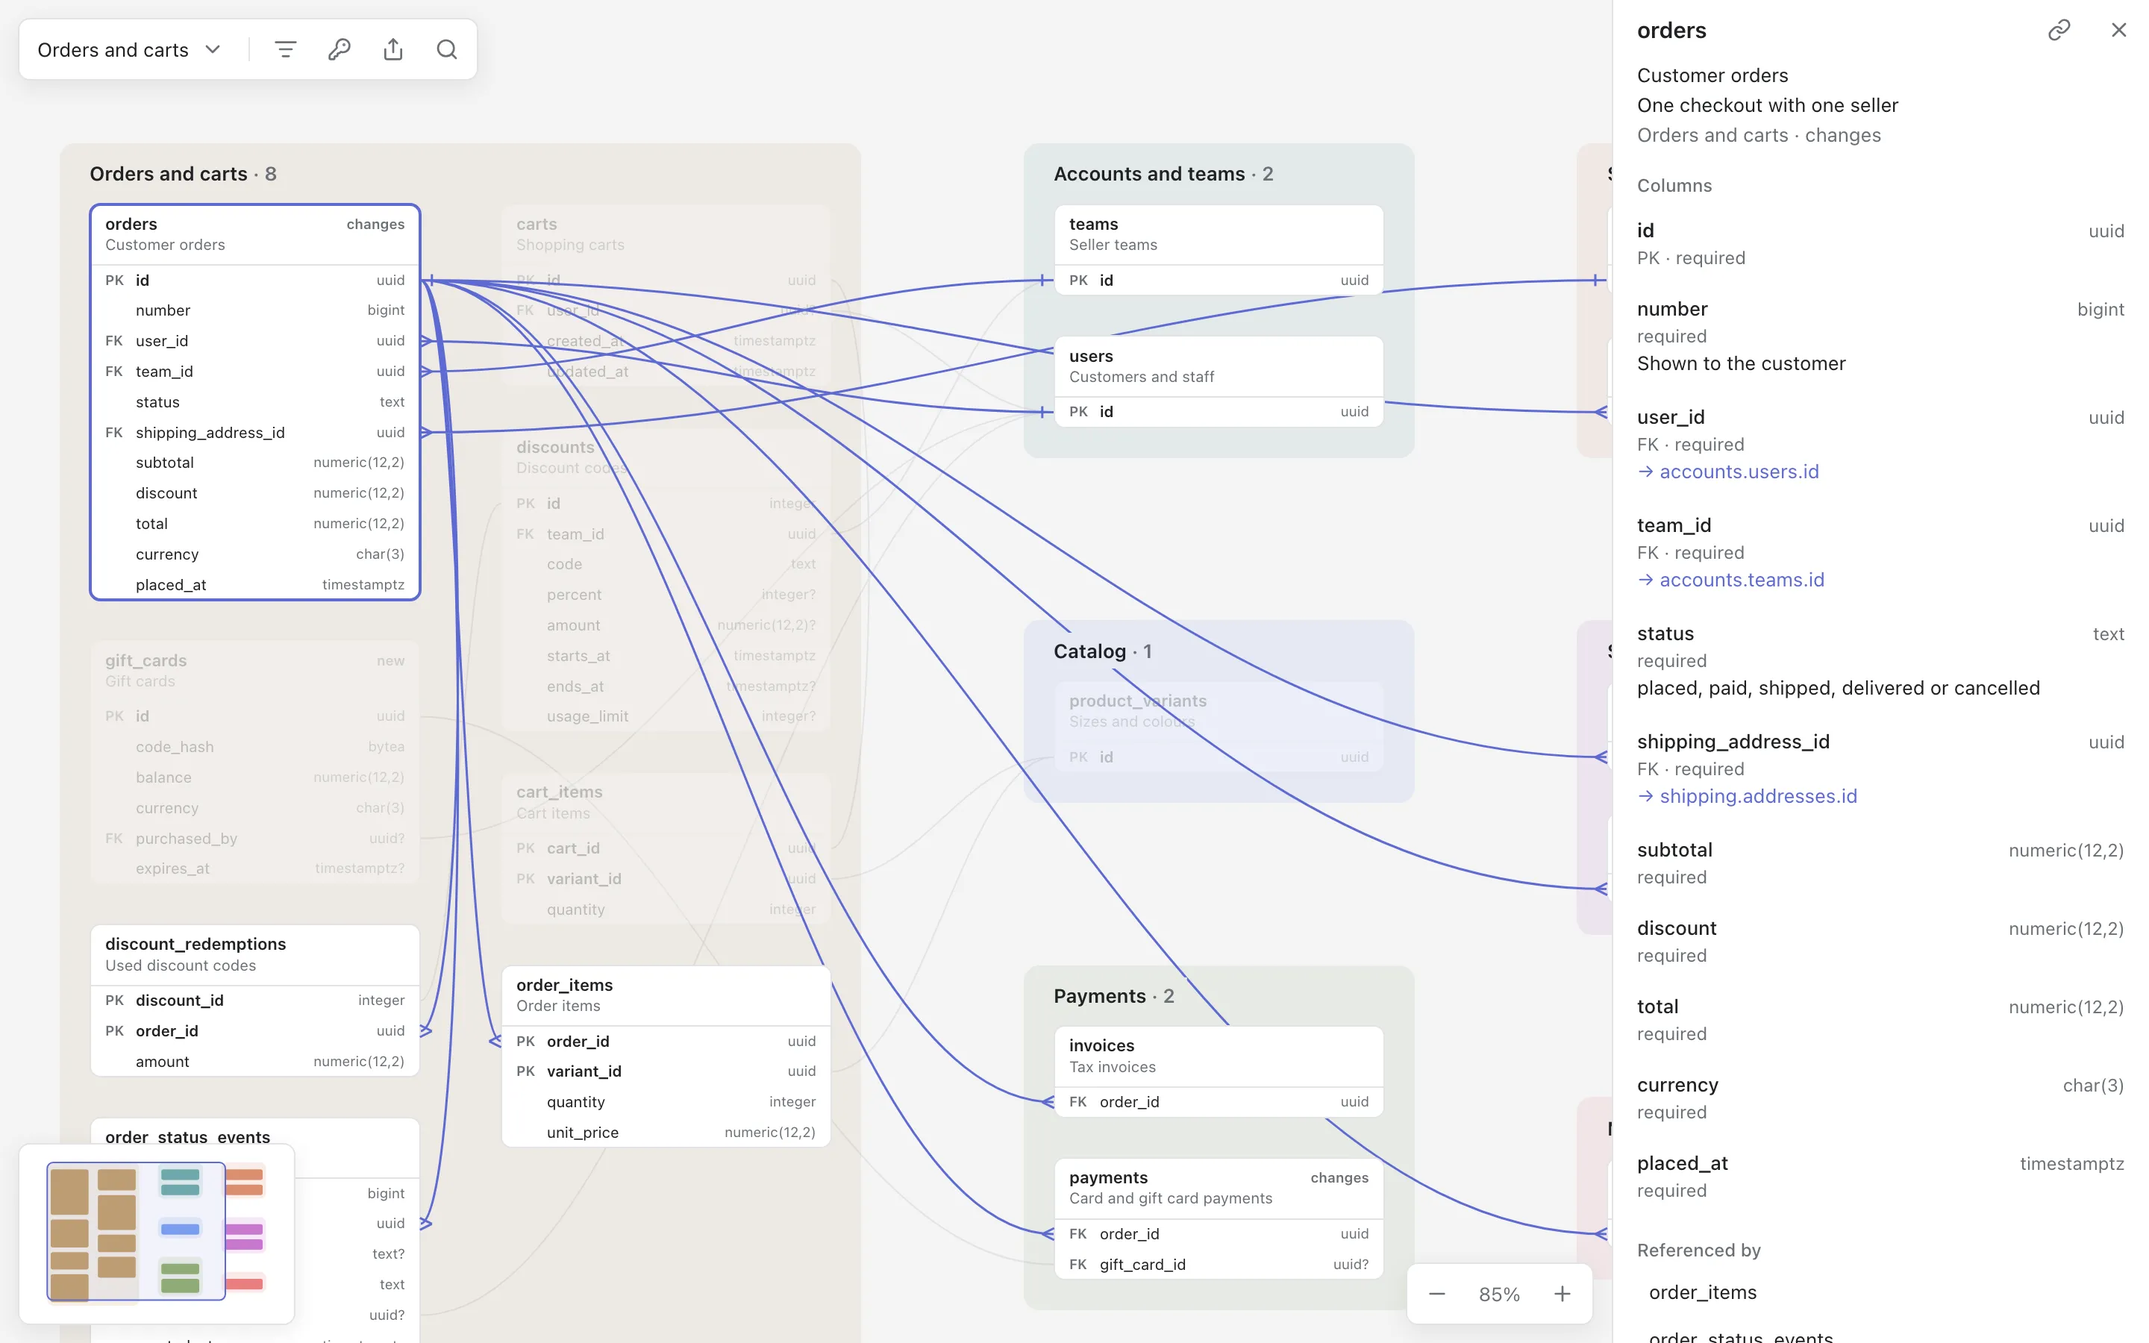
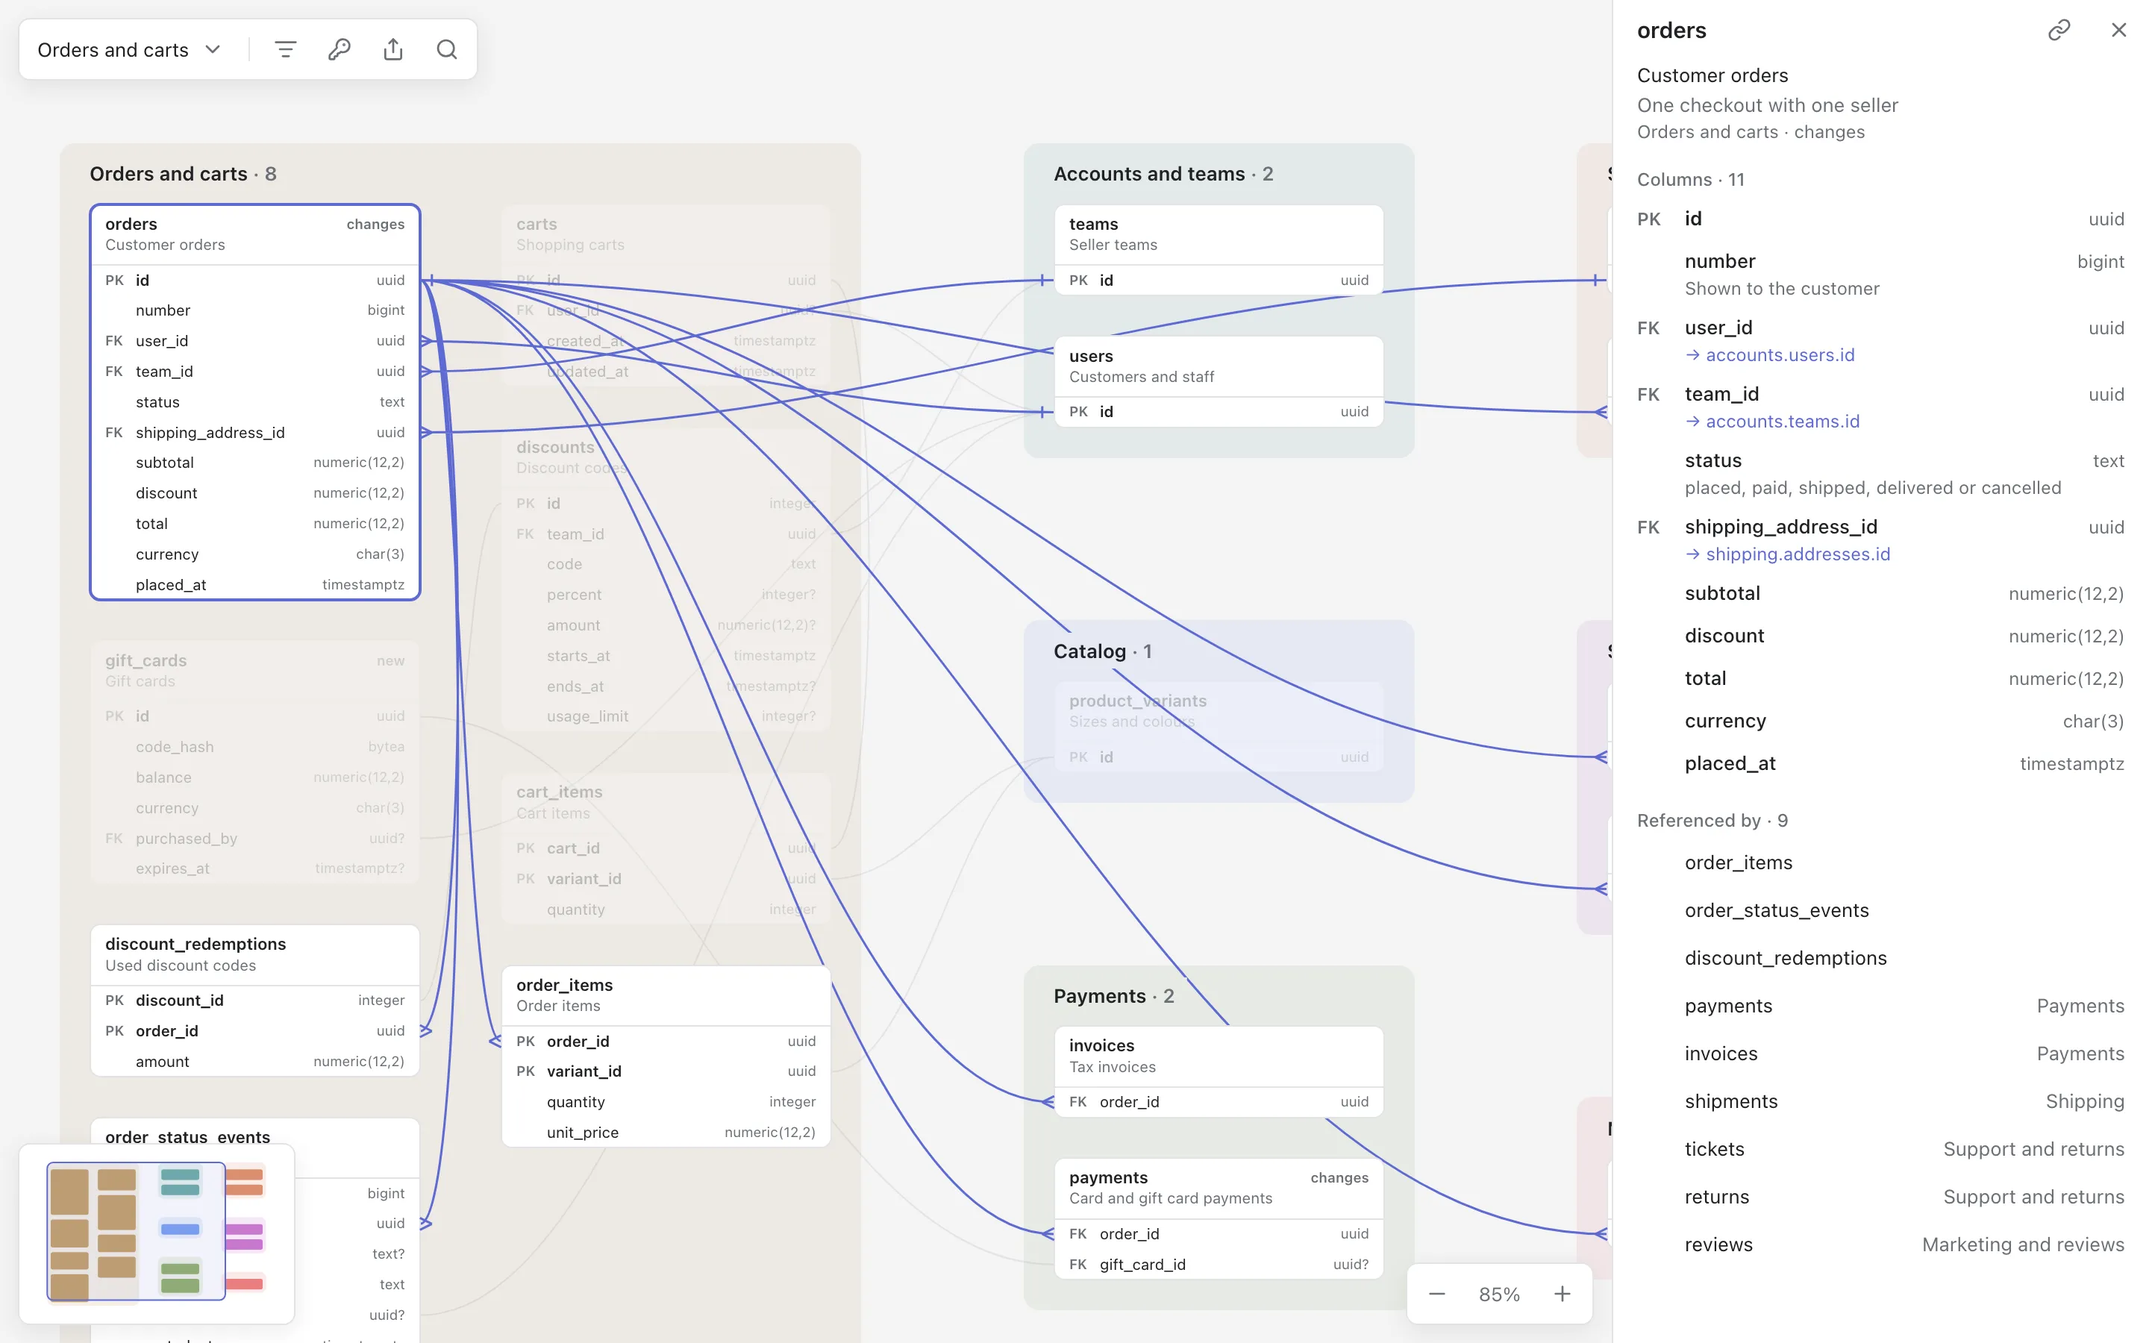
feat: a compact table panel, one line per column
Each column is one line like a Linear property: PK or FK, name, and type
with ? when it can be empty, as on the canvas; its note and reference sit
under the name. Section titles carry their counts, and the referencing
tables line up with the column names.

diff --git a/examples/storefront/diagram.html b/examples/storefront/diagram.html
@@ -26,6 +26,7 @@
     --radius-area: 12px;
     --control-height: 32px;
     --icon-size: 16px;
+    --key-width: 24px;                 /* колонка PK / FK у столбцов в панели описания */
     --search-width: 360px;             /* поиск: имя таблицы и её модуль без многоточия */
     --menu-width: 264px;
     --details-width: 360px;
@@ -200,14 +201,20 @@
   h3 { margin: var(--space-4) 0 var(--space-1); font-size: 12px; line-height: 16px; font-weight: 500; color: var(--color-text-muted); }
   #details p { margin: 0; }
   #details ul { margin: 0; }
-  .meta { display: flex; align-items: center; gap: var(--space-2); margin-top: var(--space-1); color: var(--color-text-muted); }
-  .muted { color: var(--color-text-muted); }
-  .column { padding: var(--space-2) 0; }
-  .column-head { display: flex; align-items: baseline; gap: var(--space-2); }
-  .column-name { flex: 1; min-width: 0; font-weight: 500; }
+  #details-note { color: var(--color-text-muted); }
+  .meta { margin-top: var(--space-1); font-size: 12px; line-height: 16px; color: var(--color-text-muted); }
+  /* Столбец — одна строка, как свойство в Linear: ключ, имя, тип; под ними описание и куда ссылается.
+     «?» после типа — столбец может быть пустым, как на схеме. */
+  .column {
+    display: grid; grid-template-columns: var(--key-width) minmax(0, 1fr) auto; column-gap: var(--space-2);
+    align-items: baseline; padding: var(--space-1) 0;
+  }
+  .column-key { font-size: 12px; font-weight: 600; color: var(--color-text-muted); }
+  .column-name { min-width: 0; font-weight: 500; }
   .column-name.key { font-weight: 600; }
-  .column-type { flex: none; font-size: 12px; color: var(--color-text-muted); }
-  .small { font-size: 12px; line-height: 16px; }
+  .column-type { font-size: 12px; color: var(--color-text-muted); text-align: right; }
+  .column-note, .column .link { grid-column: 2 / -1; font-size: 12px; line-height: 16px; }
+  .column-note { color: var(--color-text-muted); }
   .link {
     display: block;
     padding: 0;
@@ -221,7 +228,8 @@
   }
   .link:hover { text-decoration: underline; }
   .link:focus-visible { outline: 2px solid var(--color-accent); outline-offset: 2px; }
-  #details-incoming { margin: 0 calc(-1 * var(--space-2)); }
+  #details #details-incoming { margin: 0 calc(-1 * var(--space-2)); }   /* подсветка строк выходит за поле; «#details ul» иначе главнее */
+  #details-incoming .control { padding-left: calc(var(--key-width) + 2 * var(--space-2)); }   /* имена — на линии имён столбцов */
   /* подсказка столбца на холсте */
   #tip {
     position: fixed;
@@ -292,9 +300,9 @@
     <p id="details-title"></p>
     <p id="details-note"></p>
     <p id="details-meta" class="meta"></p>
-    <h3 data-text="columns"></h3>
+    <h3 id="details-columns-title"></h3>
     <ul id="details-columns"></ul>
-    <h3 id="details-incoming-title" data-text="incoming"></h3>
+    <h3 id="details-incoming-title"></h3>
     <ul id="details-incoming"></ul>
   </div>
 </aside>
@@ -842,7 +850,7 @@ const STRINGS = {
     canvas: 'Database diagram', toolbar: 'Diagram tools', statusMenu: 'Table status', search: 'Table', searchHint: 'Find a table  /',
     searchLabel: 'Find a table', zoom: 'Zoom', zoomOut: 'Zoom out', zoomIn: 'Zoom in', fit: 'Fit',
     details: 'Table details', comment: 'Comment', copyLink: 'Copy link', copied: 'Link copied', close: 'Close',
-    columns: 'Columns', incoming: 'Referenced by', notFound: 'Not found', required: 'required',
+    columns: 'Columns', incoming: 'Referenced by', notFound: 'Not found',
     allTables: 'All tables', failure: 'The diagram did not open.',
     modeKeys: 'Keys only', modeKeysHint: 'Keys only: primary keys and the columns of references', minimap: 'Diagram map',
     exportMenu: 'Export schema', copy: { dbml: 'Copy DBML', sql: 'Copy SQL' }, save: { dbml: 'Download DBML', sql: 'Download SQL' },
@@ -856,7 +864,7 @@ const STRINGS = {
     canvas: 'Схема базы', toolbar: 'Инструменты схемы', statusMenu: 'Статус таблиц', search: 'Таблица', searchHint: 'Поиск таблицы  /',
     searchLabel: 'Поиск таблицы', zoom: 'Масштаб', zoomOut: 'Уменьшить', zoomIn: 'Увеличить', fit: 'Весь вид',
     details: 'Описание таблицы', comment: 'Комментарий', copyLink: 'Скопировать ссылку', copied: 'Ссылка скопирована', close: 'Закрыть',
-    columns: 'Столбцы', incoming: 'Ссылаются сюда', notFound: 'Не найдено', required: 'обязательный',
+    columns: 'Столбцы', incoming: 'Ссылаются сюда', notFound: 'Не найдено',
     allTables: 'Все таблицы', failure: 'Схема не открылась.',
     modeKeys: 'Только ключи', modeKeysHint: 'Только ключи: первичные ключи и столбцы связей', minimap: 'Карта схемы',
     exportMenu: 'Выгрузка схемы', copy: { dbml: 'Скопировать DBML', sql: 'Скопировать SQL' }, save: { dbml: 'Скачать DBML', sql: 'Скачать SQL' },
@@ -1760,14 +1768,13 @@ function showDetails() {
   document.getElementById('details-meta').textContent = HAS_STATUS ? `${moduleName} · ${STATUS_NAME[table.status]}` : moduleName;
   const columns = document.getElementById('details-columns');
   columns.replaceChildren();
+  document.getElementById('details-columns-title').textContent = `${TEXT.columns} · ${table.columns.length}`;
   for (const [name, type, flags, note, links] of table.columns) {
     const item = make('li', 'column');
-    const head = make('div', 'column-head');
-    head.append(make('span', flags & PK ? 'column-name key' : 'column-name', name), make('span', 'column-type', type));
-    item.append(head);
-    const marks = [flags & PK ? 'PK' : '', flags & FK ? 'FK' : '', flags & NULLABLE ? '' : TEXT.required].filter(Boolean);
-    if (marks.length > 0) item.append(make('div', 'small muted', marks.join(' · ')));
-    if (note) item.append(make('div', '', note));
+    item.append(make('span', 'column-key', flags & PK ? 'PK' : flags & FK ? 'FK' : ''),
+      make('span', flags & PK ? 'column-name key' : 'column-name', name),
+      make('span', 'column-type', flags & NULLABLE ? `${type}?` : type));
+    if (note) item.append(make('span', 'column-note', note));
     for (const [target, column] of links || []) item.append(tableLink(target, `→ ${target}.${column}`));
     columns.append(item);
   }
@@ -1780,7 +1787,9 @@ function showDetails() {
     button.addEventListener('click', () => goToTable(source));
     incoming.append(listItem(button));
   }
-  document.getElementById('details-incoming-title').hidden = incoming.hidden = table.incoming.size === 0;
+  const incomingTitle = document.getElementById('details-incoming-title');
+  incomingTitle.textContent = `${TEXT.incoming} · ${table.incoming.size}`;
+  incomingTitle.hidden = incoming.hidden = table.incoming.size === 0;
   document.getElementById('details-body').scrollTop = 0;
 }
 function goToTable(id) {                              // переход к таблице: в этой диаграмме, а если её тут нет — в обзоре

diff --git a/plugins/schemap/skills/schemap/viewer.html b/plugins/schemap/skills/schemap/viewer.html
@@ -25,6 +25,7 @@
     --radius-area: 12px;
     --control-height: 32px;
     --icon-size: 16px;
+    --key-width: 24px;                 /* колонка PK / FK у столбцов в панели описания */
     --search-width: 360px;             /* поиск: имя таблицы и её модуль без многоточия */
     --menu-width: 264px;
     --details-width: 360px;
@@ -199,14 +200,20 @@
   h3 { margin: var(--space-4) 0 var(--space-1); font-size: 12px; line-height: 16px; font-weight: 500; color: var(--color-text-muted); }
   #details p { margin: 0; }
   #details ul { margin: 0; }
-  .meta { display: flex; align-items: center; gap: var(--space-2); margin-top: var(--space-1); color: var(--color-text-muted); }
-  .muted { color: var(--color-text-muted); }
-  .column { padding: var(--space-2) 0; }
-  .column-head { display: flex; align-items: baseline; gap: var(--space-2); }
-  .column-name { flex: 1; min-width: 0; font-weight: 500; }
+  #details-note { color: var(--color-text-muted); }
+  .meta { margin-top: var(--space-1); font-size: 12px; line-height: 16px; color: var(--color-text-muted); }
+  /* Столбец — одна строка, как свойство в Linear: ключ, имя, тип; под ними описание и куда ссылается.
+     «?» после типа — столбец может быть пустым, как на схеме. */
+  .column {
+    display: grid; grid-template-columns: var(--key-width) minmax(0, 1fr) auto; column-gap: var(--space-2);
+    align-items: baseline; padding: var(--space-1) 0;
+  }
+  .column-key { font-size: 12px; font-weight: 600; color: var(--color-text-muted); }
+  .column-name { min-width: 0; font-weight: 500; }
   .column-name.key { font-weight: 600; }
-  .column-type { flex: none; font-size: 12px; color: var(--color-text-muted); }
-  .small { font-size: 12px; line-height: 16px; }
+  .column-type { font-size: 12px; color: var(--color-text-muted); text-align: right; }
+  .column-note, .column .link { grid-column: 2 / -1; font-size: 12px; line-height: 16px; }
+  .column-note { color: var(--color-text-muted); }
   .link {
     display: block;
     padding: 0;
@@ -220,7 +227,8 @@
   }
   .link:hover { text-decoration: underline; }
   .link:focus-visible { outline: 2px solid var(--color-accent); outline-offset: 2px; }
-  #details-incoming { margin: 0 calc(-1 * var(--space-2)); }
+  #details #details-incoming { margin: 0 calc(-1 * var(--space-2)); }   /* подсветка строк выходит за поле; «#details ul» иначе главнее */
+  #details-incoming .control { padding-left: calc(var(--key-width) + 2 * var(--space-2)); }   /* имена — на линии имён столбцов */
   /* подсказка столбца на холсте */
   #tip {
     position: fixed;
@@ -291,9 +299,9 @@
     <p id="details-title"></p>
     <p id="details-note"></p>
     <p id="details-meta" class="meta"></p>
-    <h3 data-text="columns"></h3>
+    <h3 id="details-columns-title"></h3>
     <ul id="details-columns"></ul>
-    <h3 id="details-incoming-title" data-text="incoming"></h3>
+    <h3 id="details-incoming-title"></h3>
     <ul id="details-incoming"></ul>
   </div>
 </aside>
@@ -841,7 +849,7 @@ const STRINGS = {
     canvas: 'Database diagram', toolbar: 'Diagram tools', statusMenu: 'Table status', search: 'Table', searchHint: 'Find a table  /',
     searchLabel: 'Find a table', zoom: 'Zoom', zoomOut: 'Zoom out', zoomIn: 'Zoom in', fit: 'Fit',
     details: 'Table details', comment: 'Comment', copyLink: 'Copy link', copied: 'Link copied', close: 'Close',
-    columns: 'Columns', incoming: 'Referenced by', notFound: 'Not found', required: 'required',
+    columns: 'Columns', incoming: 'Referenced by', notFound: 'Not found',
     allTables: 'All tables', failure: 'The diagram did not open.',
     modeKeys: 'Keys only', modeKeysHint: 'Keys only: primary keys and the columns of references', minimap: 'Diagram map',
     exportMenu: 'Export schema', copy: { dbml: 'Copy DBML', sql: 'Copy SQL' }, save: { dbml: 'Download DBML', sql: 'Download SQL' },
@@ -855,7 +863,7 @@ const STRINGS = {
     canvas: 'Схема базы', toolbar: 'Инструменты схемы', statusMenu: 'Статус таблиц', search: 'Таблица', searchHint: 'Поиск таблицы  /',
     searchLabel: 'Поиск таблицы', zoom: 'Масштаб', zoomOut: 'Уменьшить', zoomIn: 'Увеличить', fit: 'Весь вид',
     details: 'Описание таблицы', comment: 'Комментарий', copyLink: 'Скопировать ссылку', copied: 'Ссылка скопирована', close: 'Закрыть',
-    columns: 'Столбцы', incoming: 'Ссылаются сюда', notFound: 'Не найдено', required: 'обязательный',
+    columns: 'Столбцы', incoming: 'Ссылаются сюда', notFound: 'Не найдено',
     allTables: 'Все таблицы', failure: 'Схема не открылась.',
     modeKeys: 'Только ключи', modeKeysHint: 'Только ключи: первичные ключи и столбцы связей', minimap: 'Карта схемы',
     exportMenu: 'Выгрузка схемы', copy: { dbml: 'Скопировать DBML', sql: 'Скопировать SQL' }, save: { dbml: 'Скачать DBML', sql: 'Скачать SQL' },
@@ -1759,14 +1767,13 @@ function showDetails() {
   document.getElementById('details-meta').textContent = HAS_STATUS ? `${moduleName} · ${STATUS_NAME[table.status]}` : moduleName;
   const columns = document.getElementById('details-columns');
   columns.replaceChildren();
+  document.getElementById('details-columns-title').textContent = `${TEXT.columns} · ${table.columns.length}`;
   for (const [name, type, flags, note, links] of table.columns) {
     const item = make('li', 'column');
-    const head = make('div', 'column-head');
-    head.append(make('span', flags & PK ? 'column-name key' : 'column-name', name), make('span', 'column-type', type));
-    item.append(head);
-    const marks = [flags & PK ? 'PK' : '', flags & FK ? 'FK' : '', flags & NULLABLE ? '' : TEXT.required].filter(Boolean);
-    if (marks.length > 0) item.append(make('div', 'small muted', marks.join(' · ')));
-    if (note) item.append(make('div', '', note));
+    item.append(make('span', 'column-key', flags & PK ? 'PK' : flags & FK ? 'FK' : ''),
+      make('span', flags & PK ? 'column-name key' : 'column-name', name),
+      make('span', 'column-type', flags & NULLABLE ? `${type}?` : type));
+    if (note) item.append(make('span', 'column-note', note));
     for (const [target, column] of links || []) item.append(tableLink(target, `→ ${target}.${column}`));
     columns.append(item);
   }
@@ -1779,7 +1786,9 @@ function showDetails() {
     button.addEventListener('click', () => goToTable(source));
     incoming.append(listItem(button));
   }
-  document.getElementById('details-incoming-title').hidden = incoming.hidden = table.incoming.size === 0;
+  const incomingTitle = document.getElementById('details-incoming-title');
+  incomingTitle.textContent = `${TEXT.incoming} · ${table.incoming.size}`;
+  incomingTitle.hidden = incoming.hidden = table.incoming.size === 0;
   document.getElementById('details-body').scrollTop = 0;
 }
 function goToTable(id) {                              // переход к таблице: в этой диаграмме, а если её тут нет — в обзоре
